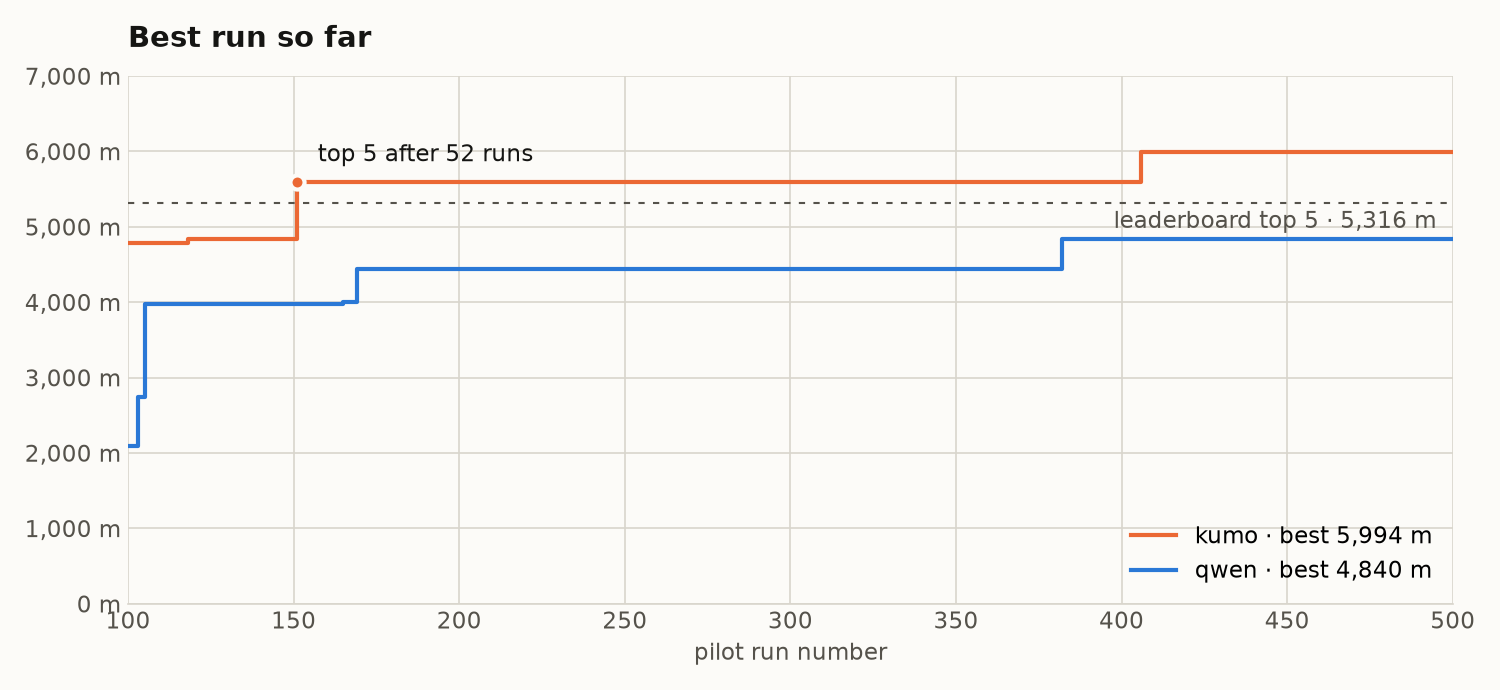
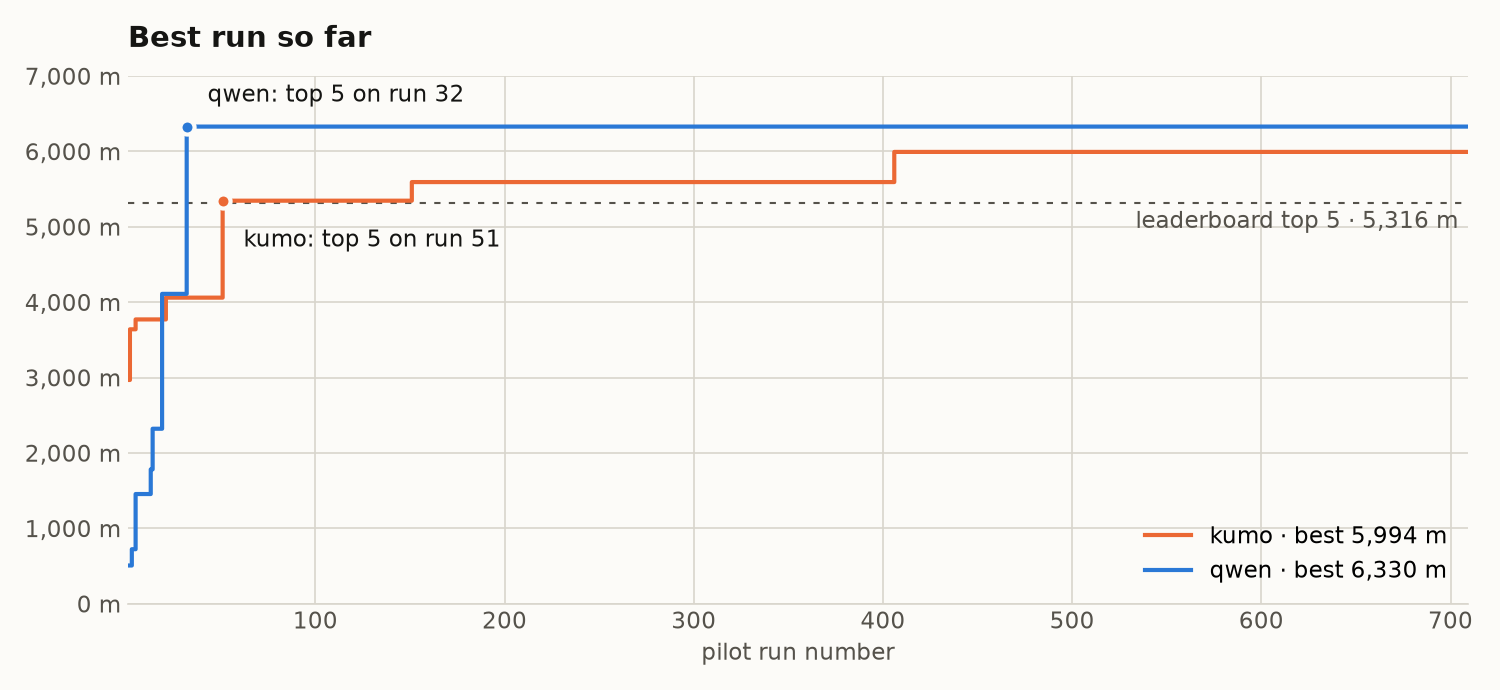
Results over every v1.11.0 run, 709 per pilot

diff --git a/README.md b/README.md
@@ -98,12 +98,12 @@ So there is a ceiling, and it is physical. The fastest lane change the hops can 
 
 ## Results
 
-Runs 100 to 500 of each pilot (401 each), on game v1.11.0, flown interleaved over the same night. The first 100 are left out.
+Every run each pilot flew on game v1.11.0, taken in order up to the same count for both (709 each), flown interleaved over the same night.
 
 | Pilot | Median | Mean | 90th percentile | Best | Runs to top 5 |
 | --- | --- | --- | --- | --- | --- |
-| kumo | 2,063 m | 2,095 m | 3,780 m | 5,994 m | 52 (24 min of flight) |
-| qwen | 1,025 m | 1,284 m | 2,738 m | 4,840 m | not reached in 401 |
+| kumo | 2,188 m | 2,119 m | 3,769 m | 5,994 m | 51 (24 min of flight), 4 runs in total |
+| qwen | 1,018 m | 1,318 m | 2,747 m | 6,330 m | 32 (10 min of flight), 1 run in total |
 
 Top 5 means a run at or beyond the board's 5th place, 5,316 m. Both models answer in about 30 ms, so speed does not separate them; kumo picks the right move more often.
 
@@ -117,7 +117,7 @@ Neither model was trained on the game. qwen sees no examples at all; kumo sees 7
 
 Every run is a fresh, random track, and that makes for a lot of noise. Kumo flew 4,792 m on its 100th run and crashed at 473 m on the next one: same model, same weights, different track. A single run says very little; a median over a few hundred says something.
 
-The leaderboard ranks best runs, and a best run is mostly a function of how many tries you get. Over the same 401 runs on the same game, kumo's median is twice qwen's, and it holds four of the top five places. The best run on the board, 6,330 m, is still qwen's; that is luck doing its job, and also about where a perfect pilot's odds halve.
+The leaderboard ranks best runs, and a best run is mostly a function of how many tries you get. qwen holds the best run on the board, 6,330 m, flown on its 32nd run; it never got near it again in the other 677. kumo's median is twice qwen's, and it made the top 5 four times. One run at 6,330 m is luck doing its job (and about where a perfect pilot's odds halve); four runs past 5,316 m is the model.
 
 Neither model learns between runs.
 
